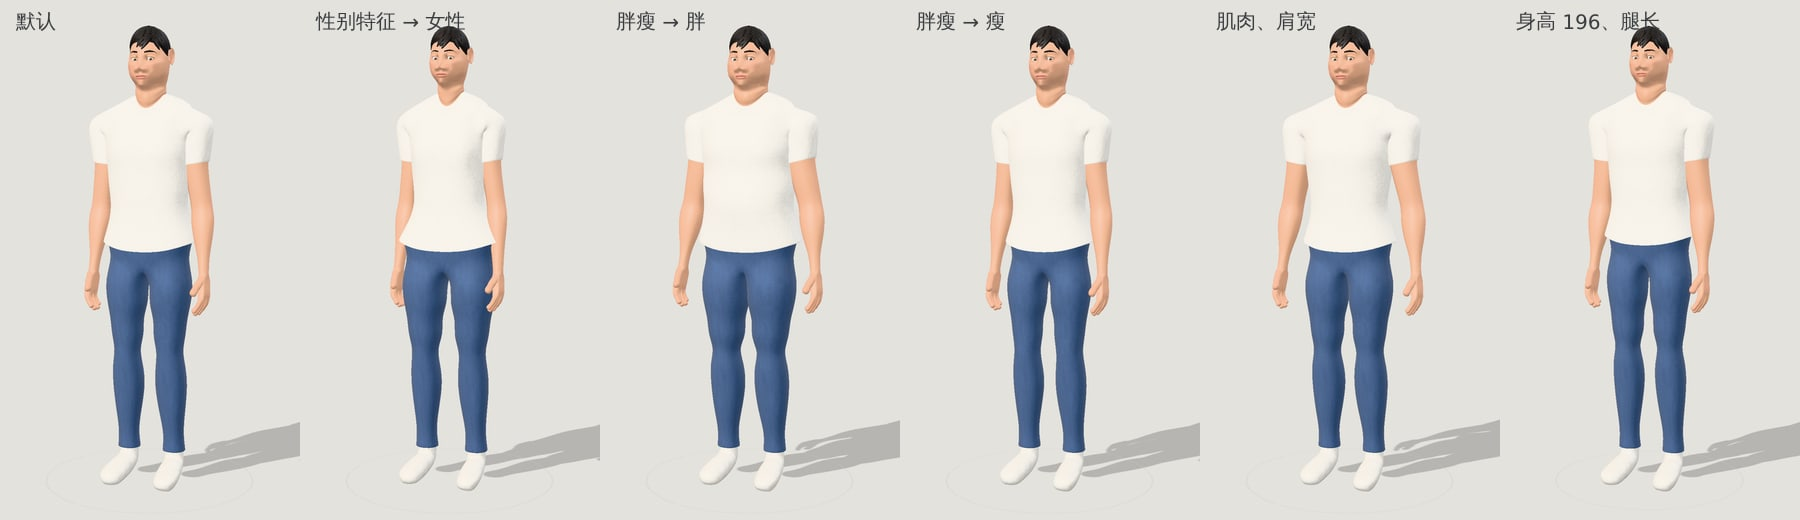
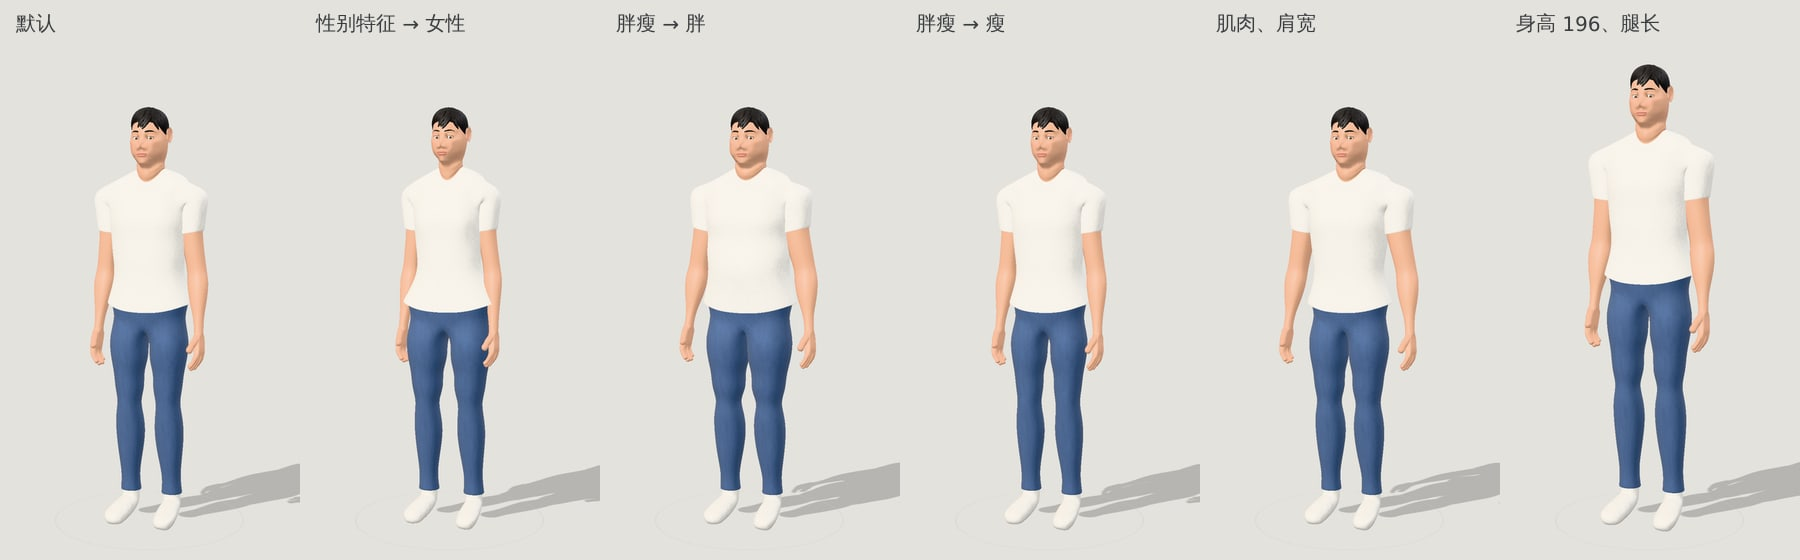
Character creator: more natural face, wrist-aware poses, boots under trousers, framing around the UI
Face: the lower face is now a U-shaped section instead of a V (no more
muzzle in three-quarter view), the chin is longer, the cranium is a little
squarer (wider crown, more upright forehead), the nasion dips, the nose
bridge and alae are narrower with a sharp underside, the upper lids sit
over the top of the iris, the lips meet at the front, and stubble covers
the upper lip, chin and jaw evenly. Rows H1/H2 no longer bunch up on the
side of the jaw. The square shapes use a blend of the 2- and 4-norm
instead of Math.pow, so the head SDF is faster than before (0.6us per
evaluation, about 13 ms per head rebuild).

Poses: arm IK can bend the wrist (finger direction plus palm facing), so
hands-on-hips rests the palms on the sides of the waist and hands-in-pockets
slides the hands under the clothes.

Clothes: boot shafts tuck inside long trousers.

Page: the camera frames the character in the area left free by the title,
the action buttons and the panel (phone layout no longer puts the head
under the title). Preview grids put labels in a band above the figures
and use a common framing height so heights compare.

README: character creator section.

Claude-Session: https://claude.ai/code/session_0144Myy6e38g8r8YvUr92puP

diff --git a/src/character/head.js b/src/character/head.js
@@ -21,16 +21,35 @@ function smin(a, b, k) {
 const smax = (a, b, k) => -smin(-a, -b, k);
 
 function ell(x, y, z, rx, ry, rz) {
-  const k0 = Math.hypot(x / rx, y / ry, z / rz);
-  const k1 = Math.hypot(x / (rx * rx), y / (ry * ry), z / (rz * rz));
+  const ux = x / rx, uy = y / ry, uz = z / rz, vx = ux / rx, vy = uy / ry, vz = uz / rz;
+  const k0 = Math.sqrt(ux * ux + uy * uy + uz * uz);
+  const k1 = Math.sqrt(vx * vx + vy * vy + vz * vz);
   return k1 < 1e-9 ? -Math.min(rx, ry, rz) : (k0 * (k0 - 1)) / k1;
+}
+// “方圆”的形体：横截面（x–z）和竖直方向都用 2 范数和 4 范数的加权和代替超椭圆（w = 1 是椭圆，w 越小越方；
+// w = 0.45 ≈ 指数 2.7，0.52 ≈ 2.6，0.65 ≈ 2.4 —— 在坐标轴上和对角线上都一样）。只用乘法和开方，比 Math.pow 快得多。
+// 距离取一阶近似 f/|∇f|
+function sell(x, y, z, rx, ry, rz, wn, wm) {
+  const ax = Math.abs(x) / rx, az = Math.abs(z) / rz, ay = Math.abs(y) / ry;
+  const ax2 = ax * ax, az2 = az * az;
+  const l2 = Math.sqrt(ax2 + az2), l4 = Math.sqrt(Math.sqrt(ax2 * ax2 + az2 * az2));
+  const g = wn * l2 + (1 - wn) * l4;
+  const g2 = g * g, ay2 = ay * ay;
+  const m2 = Math.sqrt(g2 + ay2), m4 = Math.sqrt(Math.sqrt(g2 * g2 + ay2 * ay2));
+  const f = wm * m2 + (1 - wm) * m4;
+  if (l2 < 1e-9 || m2 < 1e-9) return (f - 1) * Math.min(rx, ry, rz);
+  const kg = (1 - wn) / (l4 * l4 * l4), kf = (1 - wm) / (m4 * m4 * m4);
+  const fg = wm * g / m2 + kf * g2 * g, fy = wm * ay / m2 + kf * ay2 * ay;
+  const dx = fg * (wn * ax / l2 + kg * ax2 * ax) / rx, dz = fg * (wn * az / l2 + kg * az2 * az) / rz, dy = fy / ry;
+  return (f - 1) / Math.sqrt(dx * dx + dy * dy + dz * dz);
 }
 // 两端半径不同的胶囊
 function cone(px, py, pz, a, b, ra, rb) {
   const bx = b[0] - a[0], by = b[1] - a[1], bz = b[2] - a[2];
   const qx = px - a[0], qy = py - a[1], qz = pz - a[2];
   const h = clamp((qx * bx + qy * by + qz * bz) / (bx * bx + by * by + bz * bz), 0, 1);
-  return Math.hypot(qx - bx * h, qy - by * h, qz - bz * h) - lerp(ra, rb, h);
+  const dx = qx - bx * h, dy = qy - by * h, dz = qz - bz * h;
+  return Math.sqrt(dx * dx + dy * dy + dz * dz) - lerp(ra, rb, h);
 }
 
 // —— 由参数得到五官的位置、尺寸（头部局部坐标，未缩放）——
@@ -48,8 +67,8 @@ export function headFeatures(p) {
     R,
     // 睑裂的半宽（方位角，弧度）、上下睑的高度（仰角）、外眼角上挑
     w: 1.22 + 0.1 * p.eyeSize + 0.05 * s,
-    hu: 0.52 + 0.07 * p.eyeSize + 0.1 * p.eyeOpen + 0.05 * s,
-    hl: 0.4 + 0.05 * p.eyeSize + 0.06 * p.eyeOpen + 0.02 * s,
+    hu: 0.47 + 0.07 * p.eyeSize + 0.1 * p.eyeOpen + 0.05 * s,
+    hl: 0.46 + 0.05 * p.eyeSize + 0.06 * p.eyeOpen + 0.02 * s,
     tilt: 0.09 * p.eyeTilt + 0.03 * s,
     lid: p.lid,
   };
@@ -59,23 +78,23 @@ export function headFeatures(p) {
     bridgeY: 0.013,
     tipY: -0.031 * nl * fl,
     baseY: -0.043 * nl * fl,
-    rootH: 0.0045 + 0.004 * p.noseBridge,                         // 鼻根（两眼之间）的高度
-    tipH: (0.0175 + 0.0035 * p.noseBridge + 0.002 * p.noseSize) * (1 - 0.14 * s), // 鼻尖处鼻梁的高度
-    ball: 0.0042 * (1 + 0.35 * p.noseSize),                        // 鼻头
-    tipR: 0.0078 * (1 + 0.14 * p.noseSize) * (1 - 0.06 * s),
-    alaX: 0.0138 * (1 + 0.16 * p.noseWidth) * (1 - 0.1 * s),
-    alaH: 0.0105 * (1 + 0.1 * p.noseWidth),
+    rootH: 0.003 + 0.004 * p.noseBridge,                          // 鼻根（两眼之间）的高度
+    tipH: (0.0145 + 0.0035 * p.noseBridge + 0.002 * p.noseSize) * (1 - 0.14 * s), // 鼻尖处鼻梁的高度
+    ball: 0.0047 * (1 + 0.35 * p.noseSize),                        // 鼻头
+    tipR: 0.0068 * (1 + 0.14 * p.noseSize) * (1 - 0.06 * s),
+    alaX: 0.0108 * (1 + 0.18 * p.noseWidth) * (1 - 0.1 * s),
+    alaH: 0.0062 * (1 + 0.12 * p.noseWidth),
     up: 0.003 * p.noseTip,
   };
   // 嘴
-  const chinY = -0.105 * fl * (1 + 0.06 * p.chin) * (1 - 0.035 * s);
+  const chinY = -0.11 * fl * (1 + 0.06 * p.chin) * (1 - 0.035 * s);
   F.mouth = {
     // 嘴在鼻底和下巴之间按比例放（鼻子、下巴怎么变，嘴都不会跑到它们外面去）
     y: lerp(F.nose.baseY, chinY, 0.36 - 0.04 * p.mouthHeight),
     w: 0.0242 * (1 + 0.13 * p.mouthWidth) * (1 - 0.03 * s),
-    up: 0.0084 * (1 + 0.28 * p.lips + 0.12 * s) * (1 + 0.22 * p.upperLip),
-    lo: 0.0102 * (1 + 0.3 * p.lips + 0.12 * s) * (1 - 0.18 * p.upperLip),
-    full: 0.0042 * (1 + 0.45 * p.lips + 0.25 * s),
+    up: 0.0092 * (1 + 0.28 * p.lips + 0.12 * s) * (1 + 0.22 * p.upperLip),
+    lo: 0.0108 * (1 + 0.3 * p.lips + 0.12 * s) * (1 - 0.18 * p.upperLip),
+    full: 0.0046 * (1 + 0.45 * p.lips + 0.25 * s),
     corner: 0.0025 * p.mouthCorner,
   };
   // 下巴、下颌
@@ -109,17 +128,18 @@ export function headSDF(F, neckR) {
   const bump = (c, s, a, m = true) => { if (a) B.push({ c, k: s.map((v) => 1 / (2 * v * v)), a, m }); };
   const ridge = F.brow.ridge;
   bump([0.029, 0.025, 0.08], [0.019, 0.0075, 0.03], 0.0034 * ridge);              // 眉弓
-  bump([0, 0.02, 0.085], [0.011, 0.008, 0.03], 0.0018 * ridge, false);            // 眉间
+  bump([0, 0.02, 0.085], [0.012, 0.008, 0.03], 0.003 * ridge, false);             // 眉间
   bump([E.x, E.y + 0.001, 0.085], [0.0155, 0.0115, 0.03], -0.0095);               // 眼窝
   bump([E.x + 0.01, E.y - 0.014, 0.08], [0.014, 0.006, 0.03], 0.0016);            // 下眼眶
   bump([0.05 * fw, -0.014, 0.06], [0.015, 0.011, 0.03], 0.0046 * F.cheekbone);    // 颧骨
   bump([0.033, -0.03, 0.075], [0.014, 0.014, 0.03], 0.003 * F.cheek);              // 苹果肌
   bump([0.052 * fw, -0.052, 0.05], [0.012, 0.014, 0.03], -0.0034 * (1.6 - F.cheek)); // 颧下的凹
   bump([0.069, 0.03, 0.03], [0.01, 0.02, 0.025], -0.0026);                         // 太阳穴
-  bump([0, M.y + 0.003, 0.08], [0.022, 0.016, 0.03], 0.003, false);                // 口鼻部
-  bump([0, C.y + 0.017, 0.078], [0.013 * (C.w / 0.019), 0.011, 0.03], 0.0095 + 0.006 * (C.z - 0.082) / 0.009, false); // 下巴
-  bump([0, 0.056, 0.075], [0.034, 0.02, 0.03], 0.0032 * F.forehead, false);       // 额头
-  bump([0, M.y - M.lo - 0.007, 0.085], [0.012, 0.0045, 0.03], -0.0022, false);    // 颏唇沟
+  bump([0, M.y + 0.013, 0.08], [0.026, 0.017, 0.03], 0.0045, false);               // 口鼻部（牙弓）：鼻翼下面那块往前，朝前受光
+  bump([0, C.y + 0.017, 0.078], [0.013 * (C.w / 0.019), 0.011, 0.03], 0.012 + 0.006 * (C.z - 0.082) / 0.009, false);  // 下巴
+  bump([0, 0.058, 0.075], [0.04, 0.024, 0.03], 0.0035 * F.forehead, false);       // 额头
+  bump([0, 0.008, 0.09], [0.011, 0.008, 0.03], -0.005, false);                     // 鼻根的凹（眉间和鼻梁之间）
+  bump([0, M.y - M.lo - 0.007, 0.085], [0.014, 0.0055, 0.03], -0.0034, false);    // 颏唇沟
   bump([J.x, J.y + 0.004, J.z + 0.02], [0.008, 0.012, 0.025], 0.0032 * F.jawK);   // 下颌角
   bump([0, -0.006, -0.1], [0.04, 0.03, 0.025], 0.0055, false);                     // 后脑勺
   // 鼻子：鼻梁（越往下越高、越宽）+ 鼻头 + 两侧鼻翼
@@ -127,23 +147,28 @@ export function headSDF(F, neckR) {
     if (z < 0.05 || y > N.bridgeY + 0.02 || y < N.baseY - 0.012) return 0;
     const t = clamp((N.bridgeY - y) / (N.bridgeY - N.tipY), 0, 1);
     const win = sstep(N.bridgeY + 0.012, N.bridgeY - 0.002, y) * sstep(N.baseY - 0.003, N.tipY - 0.004, y);
-    const w = lerp(0.0062, 0.0088, t);
+    const w = lerp(0.005, 0.0066, t);
     let h = lerp(N.rootH, N.tipH, t ** 1.15) * Math.exp(-(x * x) / (2 * w * w)) * win;
     const dy = y - N.tipY - N.up;
     h += N.ball * Math.exp(-(x * x) / (2 * N.tipR ** 2) - (dy * dy) / (2 * (N.tipR * 0.9) ** 2));
     const ay = y - N.baseY - 0.0045, ax2 = ax - N.alaX;
-    h += N.alaH * Math.exp(-(ax2 * ax2) / (2 * 0.0052 ** 2) - (ay * ay) / (2 * 0.0056 ** 2));
+    // 鼻翼：上面缓、下面陡（鼻底是窄窄一条阴影，而不是一大片朝下的斜面）
+    const sy = ay > 0 ? 0.0058 : 0.0034;
+    h += N.alaH * Math.exp(-(ax2 * ax2) / (2 * 0.0046 ** 2) - (ay * ay) / (2 * sy * sy));
     return h;
   };
   return (x, y, z) => {
     const ax = Math.abs(x);
-    let d = ell(x, y - 0.021, z + 0.014, 0.0768 * Math.sqrt(fw), 0.095 * F.forehead, 0.1);
+    // 颅骨：竖直方向略“方”的超椭圆 —— 头顶比椭球宽，额头更直
+    let d = sell(x, y - 0.021, z + 0.014, 0.0768 * Math.sqrt(fw), 0.095 * F.forehead, 0.1, 1, 0.65);
     d = smin(d, ell(x, y + 0.018, z - 0.013, 0.067 * fw, 0.066, 0.075), 0.03);
     // 下脸：从下颌角往下巴收窄（宽度按高度插值），下巴才是尖的 / 方的，而不是一个圆盘
+    // 截面是超椭圆：下巴前面一整片是平的，两腮沿下颌往后收，而不是一个往前伸的尖嘴
     {
-      const t = sstep(J.y + 0.03, C.y + 0.002, y); // 光滑的过渡（夹断的线性插值会在下颌那一圈留下一道棱）
-      const k = lerp(1, (C.w * 1.25 + 0.007) / (J.x + 0.008), t);
-      d = smin(d, ell(x / k, y + 0.062 * fl, z - 0.014, J.x + 0.008, 0.057 * fl, 0.07) * k, 0.04);
+      const t = sstep(J.y + 0.03, C.y - 0.004, y); // 光滑的过渡（夹断的线性插值会在下颌那一圈留下一道棱）
+      const rx = lerp(J.x + 0.008, C.w * 1.1 + 0.009, t);
+      const bot = C.y - 0.014, cy = (bot - 0.025) / 2, ry = (-0.025 - bot) / 2;
+      d = smin(d, sell(x, y - cy, z - 0.014, rx, ry, 0.07, 0.45, 0.52), 0.04);
     }
     d = smin(d, cone(x, y, z, [0, -0.04, -0.03], [0, -0.26, -0.02], neckR, neckR * 1.04), 0.03);
     let h = nose(ax, x, y, z);
@@ -235,8 +260,10 @@ function frontRows(F) {
   // 下唇下面那一行（嘴洞的下沿）和下巴最前面那一行：始终按比例夹在嘴和下巴底之间
   const y3 = Math.max(M.y - M.lo - 0.0072, C.y + 0.017), y2 = Math.max(lerp(C.y, y3, 0.42), C.y + 0.0095);
   const y2s = Math.max(J.y - 0.002, Math.min(J.y - 0.0005, M.y - 0.012));
-  rows[2] = [y2, [0.0135, y2 + 0.0015], [0.028, lerp(y2, y3, 0.3) + 0.002], [0.042 * fw, Math.min(lerp(C.y, J.y, 0.5) + 0.004, y3 - 0.006)], [0, y2s]];
-  rows[3] = [y3, [0.011, y3 + 0.0004], [M.w + 0.005, Math.max(M.y - M.lo * 0.75 - 0.005, y3 + 0.002)], [0.046 * fw, Math.max(M.y - 0.012, y3 + 0.001)], [0, Math.max(M.y - 0.006, y2s + 0.004)]];
+  // 第 3 列在下颌的侧面：H2 取 H3 和下颌下缘（H1，约在下巴和下颌角连线上）中间，两行不会挤到同一高度
+  const y3c3 = Math.max(M.y - 0.012, y3 + 0.001);
+  rows[2] = [y2, [0.0135, y2 + 0.0015], [0.028, lerp(y2, y3, 0.3) + 0.002], [0.042 * fw, Math.min(y3c3 - 0.0068, lerp(C.y, J.y, 0.5) + 0.009)], [0, y2s]];
+  rows[3] = [y3, [0.011, y3 + 0.0004], [M.w + 0.005, Math.max(M.y - M.lo * 0.75 - 0.005, y3 + 0.002)], [0.046 * fw, y3c3], [0, Math.max(M.y - 0.006, y2s + 0.004)]];
   rows[4] = [null, [null, null], [M.w + 0.0065, M.y + M.corner], [0.048 * fw, M.y], [0, M.y + 0.005]];
   // 上唇上面那一行（嘴洞的上沿）不能高过鼻底
   const y5 = Math.min(M.y + M.up + 0.0072, N.baseY - 0.003);
@@ -411,7 +438,7 @@ function placeMouth(topo, F, sdf, set) {
   const specs = [
     { yk: 1.0, zk: 0.0012, xk: 1.0 },        // 唇线
     { yk: 0.52, zk: M.full, xk: 0.96 },      // 唇峰
-    { yk: 0.0, zk: 0.0012, xk: 0.9 },        // 唇内缘
+    { yk: 0.0, zk: M.full * 0.55, xk: 0.9 }, // 唇内缘：上下唇在前面合上（不往嘴里卷，侧面看不会像张着嘴）
   ];
   specs.forEach((sp, i) => {
     const ring = rings[i + 1];
@@ -432,7 +459,6 @@ function placeMouth(topo, F, sdf, set) {
         y = M.y + h + cornerUp * Math.abs(X[k]) * 0.6;
         z = zAt(x, M.y + M.up * 0.5) + sp.zk * (1 - 0.35 * Math.abs(X[k]) ** 2);
       }
-      if (i === 2) z -= 0.0012;
       set(ring[k], [x, y, z]);
     }
   });

diff --git a/src/character/rig.js b/src/character/rig.js
@@ -80,9 +80,12 @@ export function skinWeights(topo) {
 // j：躯干、头、腿的关节旋转（度，绕世界坐标轴 x 前后、y 拧、z 侧摆；左边写了、右边没写的自动镜像）
 // ik：胳膊用两段式反向运动学 —— 只说手腕放在哪（身体坐标，B 是量体数据）、手肘朝哪边（pole），
 //     肩、肘的旋转自己解出来；twist 是手腕绕前臂再拧多少度（打招呼时掌心朝前）
-const mirrorIK = (o) => ({ hand: (B) => { const h = o.hand(B); return [-h[0], h[1], h[2]]; }, pole: [-o.pole[0], o.pole[1], o.pole[2]], twist: -(o.twist ?? 0) });
-const HIPS = { hand: (B) => [B.waistW + 0.035, B.waistY - 0.035, 0.03], pole: [1, 0.1, -0.55] };
-const POCKET = { hand: (B) => [B.hipW * 0.98, B.crotch + 0.07, 0.045], pole: [0.75, -0.1, -1] };
+//     dir / palm：手腕再弯一下，手指指向 dir、掌心朝 palm（胸腔坐标，左手；右手镜像）
+const flipX = (v) => v && [-v[0], v[1], v[2]];
+const mirrorIK = (o) => ({ ...o, hand: (B) => { const h = o.hand(B); return [-h[0], h[1], h[2]]; }, pole: flipX(o.pole), twist: -(o.twist ?? 0), dir: flipX(o.dir), palm: flipX(o.palm) });
+const HIPS = { hand: (B) => [B.waistW + 0.035, B.waistY - 0.04, -0.015], pole: [1, 0.1, -0.55], dir: [-0.3, -0.55, 0.78], palm: [-1, 0, 0.1] };
+// 插兜：手腕停在裤兜口（胯前外侧的表面上），手往下、往里斜着插进去 —— 手指藏在裤子下面，只露出手腕和手背
+const POCKET = { hand: (B) => [B.hipW * 0.81 - 0.011, B.crotch + 0.13, B.hipDF * 0.68 - 0.015], pole: [0.75, -0.1, -1], dir: [-0.35, -1, -0.34], palm: [-0.6, 0, -0.8] };
 export const POSES = {
   stand: { label: '站立', j: {} },
   relaxed: {
@@ -194,7 +197,23 @@ export function poseTransforms(rest, poseId, B = null, amount = 1) {
       const Rb = frameRot(nrm3(f0), on(n0, nrm3(f0)), f1, on(n1, f1));
       R[sh] = mm(Ra, Rc); P[sh] = S;
       R[el] = mm(Rb, Rc); P[el] = E;
-      R[wr] = spec.twist ? mm(axisAngle(f1, spec.twist * amount), R[el]) : R[el]; P[wr] = W;
+      let Rw = spec.twist ? mm(axisAngle(f1, spec.twist * amount), R[el]) : R[el];
+      // 手腕弯：手指转向 dir（胸腔坐标），再绕手的方向拧，让掌心尽量朝 palm
+      if (spec.dir) {
+        const want = nrm3(mv(Rc, spec.dir));
+        const ax = cross3(f1, want), sn = Math.hypot(...ax);
+        const ang = Math.min(Math.atan2(sn, dot3(f1, want)) / D2R, spec.maxBend ?? 80) * amount;
+        if (sn > 1e-6) Rw = mm(axisAngle(ax, ang), Rw);
+        if (spec.palm) {
+          const hd = nrm3(mv(Rw, sub3(rest[wr], rest[el])));
+          const on2 = (n) => nrm3(sub3(n, sc3(hd, dot3(n, hd))));
+          const sd = side === 'L' ? 1 : -1;
+          const p0 = on2(mv(Rw, [-sd, 0, 0])), p1 = on2(mv(Rc, spec.palm));
+          const tw = Math.atan2(dot3(cross3(p0, p1), hd), dot3(p0, p1)) / D2R;
+          Rw = mm(axisAngle(hd, tw * amount), Rw);
+        }
+      }
+      R[wr] = Rw; P[wr] = W;
     }
   }
   return { R, P, rest };
@@ -203,7 +222,7 @@ export function poseTransforms(rest, poseId, B = null, amount = 1) {
 // 量体数据里给反向运动学用的几个数
 export function bodyMarks(L) {
   const tor = (t) => L.crotch + t * (L.notch - L.crotch);
-  return { shoulderW: L.shoulderW, waistW: L.waistW, hipW: L.hipW, waistY: tor(0.43), chestY: tor(0.74), crotch: L.crotch, notch: L.notch, chin: L.chin, crown: L.crown };
+  return { shoulderW: L.shoulderW, waistW: L.waistW, hipW: L.hipW, hipDF: L.hipDF + 0.3 * (L.belly ?? 0), waistY: tor(0.43), chestY: tor(0.74), crotch: L.crotch, notch: L.notch, chin: L.chin, crown: L.crown };
 }
 
 // 线性混合蒙皮（控制点 / 目标点数组，就地改写成摆好姿势的位置）

diff --git a/scripts/creator-previews.js b/scripts/creator-previews.js
@@ -45,19 +45,20 @@ async function shoot(list, size) {
   return files;
 }
 
-// 拼图：cols 列，每格 w × h，格子之间留 gap
+// 拼图：cols 列，每格 w × h，格子之间留 gap；有标题时每格上面多一条 40px 的标题栏（不压在人身上）
 async function grid(files, cols, w, h, file, { gap = 0, bg = '#e3e2dd', labels = null } = {}) {
   const rows = Math.ceil(files.length / cols);
-  const W = cols * w + (cols - 1) * gap, H = rows * h + (rows - 1) * gap;
+  const lh = labels ? 40 : 0, th = h + lh;
+  const W = cols * w + (cols - 1) * gap, H = rows * th + (rows - 1) * gap;
   const parts = await Promise.all(files.map(async (f, i) => ({
     input: await sharp(f).resize(w, h, { fit: 'cover' }).toBuffer(),
-    left: (i % cols) * (w + gap), top: Math.floor(i / cols) * (h + gap),
+    left: (i % cols) * (w + gap), top: Math.floor(i / cols) * (th + gap) + lh,
   })));
   if (labels) {
     labels.forEach((t, i) => {
       if (!t) return;
-      const svg = `<svg xmlns="http://www.w3.org/2000/svg" width="${w}" height="40"><text x="16" y="28" font-family="Noto Sans CJK SC, PingFang SC, sans-serif" font-size="20" fill="#3a3d40">${t}</text></svg>`;
-      parts.push({ input: Buffer.from(svg), left: (i % cols) * (w + gap), top: Math.floor(i / cols) * (h + gap) });
+      const svg = `<svg xmlns="http://www.w3.org/2000/svg" width="${w}" height="40"><text x="16" y="30" font-family="Noto Sans CJK SC, PingFang SC, sans-serif" font-size="20" fill="#3a3d40">${t}</text></svg>`;
+      parts.push({ input: Buffer.from(svg), left: (i % cols) * (w + gap), top: Math.floor(i / cols) * (th + gap) });
     });
   }
   await sharp({ create: { width: W, height: H, channels: 3, background: bg } }).composite(parts).jpeg({ quality: 86, mozjpeg: true }).toFile(file);
@@ -76,7 +77,8 @@ try {
       .jpeg({ quality: 86, mozjpeg: true }).toFile(path.join(out, 'creator.jpg'));
   }
   const presets = [0, 1, 2, 3, 4, 5, 6, 7];
-  const full = await shoot(presets.map((i) => [`full${i}`, `preset=${i}&bare=1&az=20`]), [420, 720]);
+  // 全身图按同一个取景高度拍，高矮能直接比
+  const full = await shoot(presets.map((i) => [`full${i}`, `preset=${i}&bare=1&az=20&frameH=1.86`]), [420, 720]);
   await grid(full, 8, 300, 520, path.join(out, 'creator-presets.jpg'));
   const faces = await shoot(presets.map((i) => [`face${i}`, `preset=${i}&bare=1&cam=face&az=18`]), [520, 560]);
   await grid(faces, 4, 360, 388, path.join(out, 'creator-faces.jpg'), { gap: 4 });
@@ -85,12 +87,12 @@ try {
   await grid(ps, 6, 300, 520, path.join(out, 'creator-poses.jpg'), { labels: ['站立', '稍息', '叉腰', '插兜', '打招呼', '托腮'] });
   // 同一个人，拉不同的滑杆
   const sl = [
-    ['s-base', 'preset=0&bare=1&az=20'],
-    ['s-fem', 'preset=0&bare=1&az=20&sex=1'],
-    ['s-fat', 'preset=0&bare=1&az=20&weight=1'],
-    ['s-thin', 'preset=0&bare=1&az=20&weight=-1'],
-    ['s-mus', 'preset=0&bare=1&az=20&muscle=1&shoulders=1'],
-    ['s-tall', 'preset=0&bare=1&az=20&height=196&legs=1'],
+    ['s-base', 'preset=0&bare=1&az=20&frameH=1.98'],
+    ['s-fem', 'preset=0&bare=1&az=20&frameH=1.98&sex=1'],
+    ['s-fat', 'preset=0&bare=1&az=20&frameH=1.98&weight=1'],
+    ['s-thin', 'preset=0&bare=1&az=20&frameH=1.98&weight=-1'],
+    ['s-mus', 'preset=0&bare=1&az=20&frameH=1.98&muscle=1&shoulders=1'],
+    ['s-tall', 'preset=0&bare=1&az=20&frameH=1.98&height=196&legs=1'],
   ];
   const sls = await shoot(sl, [420, 720]);
   await grid(sls, 6, 300, 520, path.join(out, 'creator-sliders.jpg'), { labels: ['默认', '性别特征 → 女性', '胖瘦 → 胖', '胖瘦 → 瘦', '肌肉、肩宽', '身高 196、腿长'] });

diff --git a/viewer/creator.html b/viewer/creator.html
@@ -472,7 +472,9 @@ function updateCharacter({ face = true, hairNow = false } = {}) {
   setGeo(M.brows, CH.toWorld(CH.browMesh(r.head.F, r.head.sdf, p), r.head.O, r.head.g));
   updateGlasses(r);
   const cn = CH.cageNormals(body.topo.faces, r.target);
-  for (const [, g] of garments) setGeo(g.mesh, CH.evalGarment(g.gm, r.target, cn), { uv: true });
+  // 穿长裤时靴筒收进裤腿里
+  const ctx = { long: !!CH.GARMENTS[S.outfit.bottom]?.long };
+  for (const [, g] of garments) setGeo(g.mesh, CH.evalGarment(g.gm, r.target, cn, { ctx }), { uv: true });
   // 头发重算要 20~60ms：拖脸型滑杆时先只更新身体，停手 140ms 后再换头发
   if (face) {
     clearTimeout(hairTimer);
@@ -538,18 +540,30 @@ const FOCUS = {
   bust: { t: (H) => [0, H - 0.28, 0], span: () => [0.66, 0.62], el: 8 },
   face: { t: (H) => [0, H - 0.1, 0.02], span: () => [0.34, 0.3], el: 4 },
   side: { t: (H) => [0, H - 0.1, 0], span: () => [0.34, 0.34], el: 4, az: 70 },
+  waist: { t: (H) => [0, H * 0.6, 0], span: () => [0.8, 0.8], el: 6 },
+  mouth: { t: (H) => [0, H - 0.175, 0.06], span: () => [0.11, 0.11], el: 2 },
 };
-function visible() {
+// 屏幕上留给人物的那块区域（像素）：桌面是面板左边；手机是标题下面、底部抽屉（和抽屉上方那排按钮）上面
+function band() {
   const w = innerWidth, h = innerHeight;
+  if (document.body.classList.contains('bare')) return { x0: 0, x1: w, y0: 0, y1: h };
   const pr = document.querySelector('.panel').getBoundingClientRect();
-  if (document.body.classList.contains('bare')) return { fw: 1, fh: 1 };
-  if (w <= 760) return { fw: 1, fh: Math.max(0.3, pr.top / h) };
-  return { fw: Math.max(0.3, (pr.left - 16) / w), fh: 1 };
+  const hb = document.querySelector('.head').getBoundingClientRect().bottom + 8;
+  const ar = document.querySelector('.actions').getBoundingClientRect();
+  if (w <= 760) return { x0: 0, x1: w, y0: hb, y1: (ar.height > 0 ? ar.top : pr.top) - 8 };
+  // 桌面上标题和按钮在左边角上；只有留给人物的那一栏比较窄时才会和人重叠，这时也避开它们
+  const x1 = pr.left - 16, narrow = x1 < 720;
+  return { x0: 0, x1, y0: narrow ? hb : 0, y1: narrow && ar.height > 0 ? ar.top - 8 : h };
+}
+function visible() {
+  const b = band();
+  return { fw: Math.max(0.3, (b.x1 - b.x0) / innerWidth), fh: Math.max(0.25, (b.y1 - b.y0) / innerHeight) };
 }
 let camAnim = null;
 function focus(kind, instant = false) {
   const f = FOCUS[kind] ?? FOCUS.full;
-  const H = S.p.height / 100 + lift;
+  // 截图时可以固定取景高度（frameH，米），几张图里的人才能比身高
+  const H = SHOT && params.has('frameH') ? Number(params.get('frameH')) : S.p.height / 100 + lift;
   const t = new THREE.Vector3(...f.t(H));
   const dir = camera.position.clone().sub(controls.target);
   let az = Math.atan2(dir.x, dir.z) * 180 / Math.PI;
@@ -568,10 +582,9 @@ function resize() {
   renderer.setSize(w, h, false);
   camera.aspect = w / h;
   // 面板挡住的那部分：把画面中心挪到空出来的区域里
-  const pr = document.querySelector('.panel').getBoundingClientRect();
+  const b = band();
   if (document.body.classList.contains('bare')) camera.clearViewOffset();
-  else if (w <= 760) camera.setViewOffset(w, h, 0, pr.height * 0.5, w, h);
-  else camera.setViewOffset(w, h, (w - pr.left) * 0.5 + 6, 0, w, h);
+  else camera.setViewOffset(w, h, w / 2 - (b.x0 + b.x1) / 2, h / 2 - (b.y0 + b.y1) / 2, w, h);
   camera.updateProjectionMatrix();
 }
 addEventListener('resize', resize);

diff --git a/src/character/clothes.js b/src/character/clothes.js
@@ -35,13 +35,13 @@ export const GARMENTS = {
     fold: 0.012, rough: 0.9, sheen: 0.6, rib: true,
   },
   jeans: {
-    label: '牛仔裤', slot: 'bottom', layer: 1,
+    label: '牛仔裤', slot: 'bottom', layer: 1, long: true,
     select: (t) => (t.part === 'torso' && t.r <= 2) || (t.part === 'leg' && t.r <= 9),
     ease: (q) => 0.0045 + 0.005 * q.legEnd + 0.001 * q.waist,
     fold: 0.008, rough: 0.85, sheen: 0.15,
   },
   chinos: {
-    label: '休闲裤', slot: 'bottom', layer: 1,
+    label: '休闲裤', slot: 'bottom', layer: 1, long: true,
     select: (t) => (t.part === 'torso' && t.r <= 2) || (t.part === 'leg' && t.r <= 9),
     ease: (q) => 0.0065 + 0.007 * q.legEnd + 0.001 * q.waist,
     fold: 0.008, rough: 0.8, sheen: 0.25,
@@ -69,7 +69,8 @@ export const GARMENTS = {
   boots: {
     label: '短靴', slot: 'shoes', layer: 1, sole: 0.03, heel: 0.012,
     select: (t) => t.part === 'foot' || (t.part === 'leg' && t.r >= 7),
-    ease: (q) => 0.006 + 0.004 * q.legEnd,
+    // 穿长裤的时候裤腿罩在靴筒外面：脚踝以上的靴筒收进裤腿里
+    ease: (q, ctx) => (ctx?.long && !q.foot ? 0.0032 + 0.0007 * Math.max(0, q.ring - 7) : 0.006 + 0.004 * q.legEnd),
     fold: 0.006, rough: 0.5, sheen: 0,
   },
 };
@@ -138,7 +139,7 @@ export function buildGarment(body, id, specIn = null) {
 
 // 一个身体点的位置特征（0 … 1）
 function quality(topo, v) {
-  const q = { hem: 0, sleeveEnd: 0, legEnd: 0, waist: 0, low: 0 };
+  const q = { hem: 0, sleeveEnd: 0, legEnd: 0, waist: 0, low: 0, ring: -1, foot: 0 };
   const T = topo.T;
   if (T[1].includes(v)) q.hem = 1; else if (T[2].includes(v)) q.hem = 0.35;
   if (T[0].includes(v) || T[1].includes(v)) q.waist = 1;
@@ -150,8 +151,9 @@ function quality(topo, v) {
   }
   for (const l of topo.legs) {
     const i = l.L.findIndex((r) => r.includes(v));
-    if (i >= 0) q.legEnd = Math.max(0, (i - 3) / 7);
-    if (l.F.some((r) => r.includes(v))) q.legEnd = 1;
+    if (i >= 0) { q.legEnd = Math.max(0, (i - 3) / 7); q.ring = i; }
+    if (l.F.some((r) => r.includes(v))) { q.legEnd = 1; if (i < 0) q.foot = 1; }
+    if (i < 0 && l.toe.some((r) => r.includes(v))) q.foot = 1;
   }
   return q;
 }

diff --git a/src/character/face.js b/src/character/face.js
@@ -118,7 +118,8 @@ export function cageColors(topo, look) {
       if (h > 6) continue;
       const v = H[r][j];
       if (v < 0) continue;
-      const k = (r <= 1 ? 0.8 : r <= 3 ? 1 : r === 5 ? (h <= 2 ? 0.9 : 0.4) : r === 6 ? (h <= 1 ? 0 : 0.15) : 0.6) * (h >= 5 ? 0.6 : 1);
+      // 上唇、下巴、两腮差不多一样浓（只有上唇重会像画上去的一撇小胡子），鼻翼旁边淡出去
+      const k = (r <= 1 ? 0.75 : r <= 4 ? 0.85 : r === 5 ? (h <= 2 ? 0.7 : 0.6) : r === 6 ? (h <= 1 ? 0 : 0.12) : 0.6) * (h >= 5 ? 0.7 : 1);
       shade(v, tone, stubble * k * 0.75);
     }
     topo.mouth[0].forEach((v, k) => shade(v, tone, stubble * (k >= 6 && k <= 10 ? 0.7 : 0.6)));
